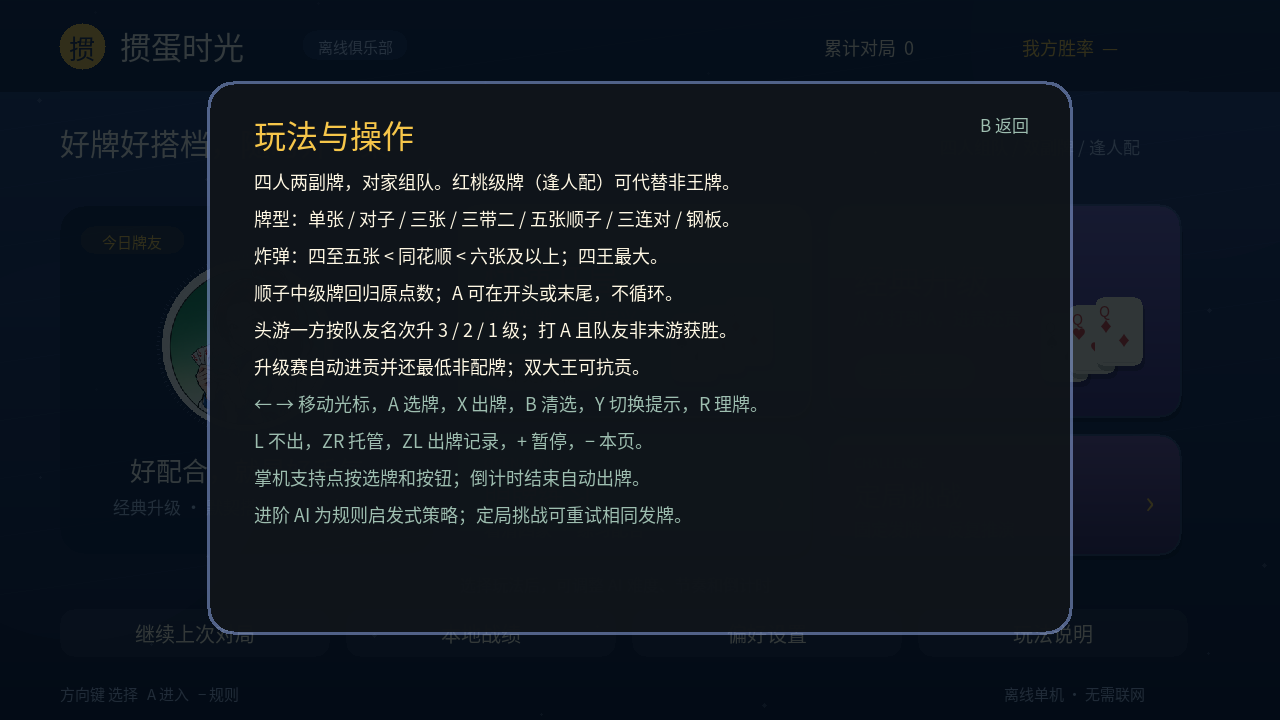
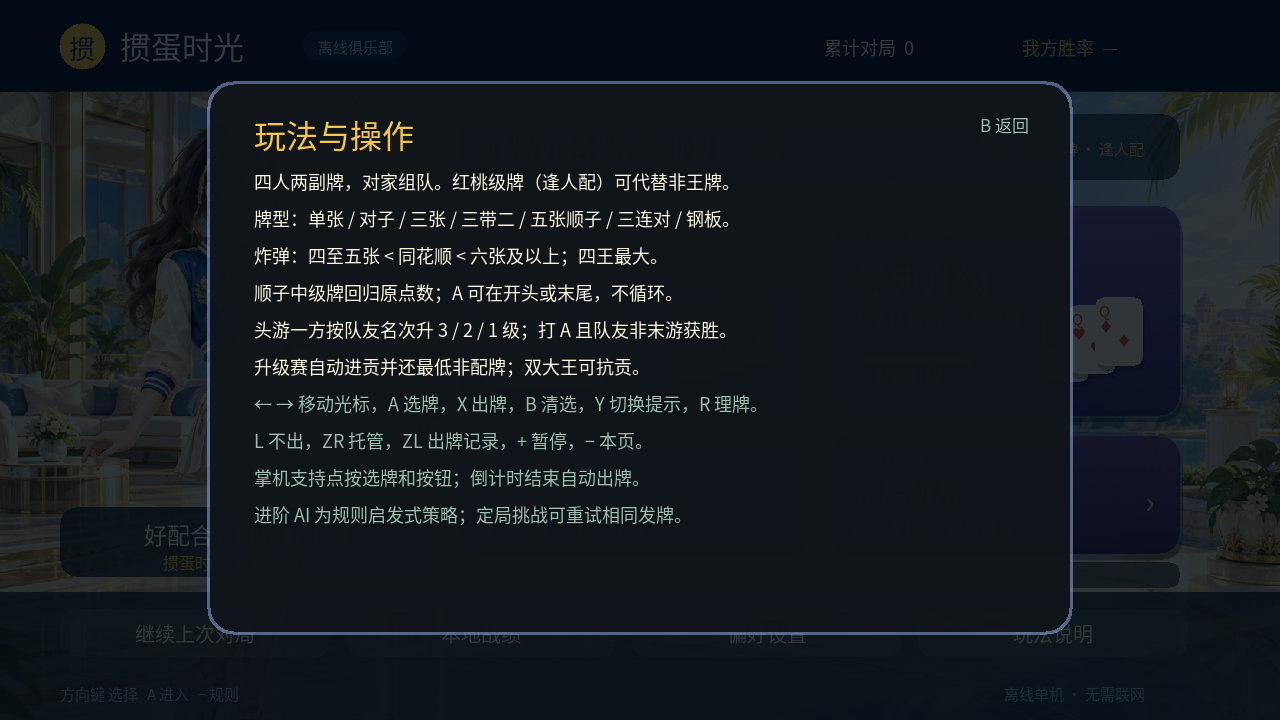
Use supplied seaside lobby and four-player transparent character atlas

Changed region(s): [[0.0, 0.1222, 0.1875, 0.825], [0.8125, 0.1222, 1.0, 0.825]]

diff --git a/source/main.cpp b/source/main.cpp
@@ -23,7 +23,7 @@ using namespace gd;
 
 static constexpr int W=1280,H=720;
 static SDL_Renderer*ren=nullptr;static SDL_Window*window=nullptr;
-static SDL_Texture*avTex[4]={nullptr,nullptr,nullptr,nullptr};static SDL_Texture*bgTex[2]={nullptr,nullptr};
+static SDL_Texture*avTex[4]={nullptr,nullptr,nullptr,nullptr};static SDL_Texture*bgTex[3]={nullptr,nullptr,nullptr};
 static std::map<int,TTF_Font*>fonts;
 struct TextTex{SDL_Texture*t;int w,h;};static std::map<std::string,TextTex>cache;
 struct Col{Uint8 r,g,b,a=255;};
@@ -63,7 +63,7 @@ void circle(int x,int y,int r,Col c){color(c);for(int i=-r;i<=r;i++){int dx=int(
 void vgrad(int x,int y,int w,int h,Col a,Col b){for(int i=0;i<h;i++){double t=h>1?i/double(h-1):0;rect(x,y+i,w,1,{Uint8(a.r*(1-t)+b.r*t),Uint8(a.g*(1-t)+b.g*t),Uint8(a.b*(1-t)+b.b*t)});}}
 void box(int x,int y,int w,int h,int r,Col c){r=std::min(r,std::min(w,h)/2);color(c);for(int row=0;row<h;row++){int inset=0;if(row<r){int dy=r-row;inset=r-int(std::sqrt(double(r*r-dy*dy)));}else if(row>=h-r){int dy=row-(h-r-1);inset=r-int(std::sqrt(double(r*r-dy*dy)));}SDL_RenderDrawLine(ren,x+inset,y+row,x+w-inset-1,y+row);}}
 void roundedGradient(int x,int y,int w,int h,int r,Col a,Col b){
- for(int row=0;row<h;row++){int dy=row<r?r-row:row>=h-r?row-(h-r-1):0;int inset=dy?r-int(std::sqrt(double(r*r-dy*dy))):0;float t=row/float(std::max(1,h-1));rect(x+inset,y+row,w-inset*2,1,{Uint8(a.r*(1-t)+b.r*t),Uint8(a.g*(1-t)+b.g*t),Uint8(a.b*(1-t)+b.b*t)});}
+ for(int row=0;row<h;row++){int dy=row<r?r-row:row>=h-r?row-(h-r-1):0;int inset=dy?r-int(std::sqrt(double(r*r-dy*dy))):0;float t=row/float(std::max(1,h-1));rect(x+inset,y+row,w-inset*2,1,{Uint8(a.r*(1-t)+b.r*t),Uint8(a.g*(1-t)+b.g*t),Uint8(a.b*(1-t)+b.b*t),Uint8(a.a*(1-t)+b.a*t)});}
 }
 void boxOutline(int x,int y,int w,int h,int r,Col c){box(x,y,w,h,r,c);}
 
@@ -96,20 +96,28 @@ void cardFace(int id,int x,int y,int w,int h,bool sel,bool focused,bool up=true)
 }
 // ---------------- avatars ----------------
 void loadAvatars(){
- const char* names[]={"avatar0.png","avatar1.png","avatar2.png","avatar3.png"};
+ const std::string root=fontPath.rfind("romfs:",0)==0?"romfs:/":"romfs/";
+ int aw=0,ah=0,an=0;unsigned char*atlas=stbi_load((root+"characters.png").c_str(),&aw,&ah,&an,4);
+ const char*names[]={"avatar0.png","avatar1.png","avatar2.png","avatar3.png"};
  for(int i=0;i<4;i++){
-  std::string p=fontPath.size()>6&&fontPath[5]==':'?std::string("romfs:/")+names[i]:std::string("romfs/")+names[i];
-  int w=0,h=0,n=0;unsigned char*px=stbi_load(p.c_str(),&w,&h,&n,4);
+  int w=0,h=0,n=0;unsigned char*px=nullptr;std::vector<unsigned char> portrait;
+  if(atlas&&aw>=4&&ah>0){
+   // Read each portrait from the supplied atlas at runtime; preserve the original asset.
+   int cell=aw/4;w=h=std::min(cell,ah);portrait.resize(w*h*4);
+   for(int yy=0;yy<h;yy++)for(int xx=0;xx<w;xx++)for(int c=0;c<4;c++)portrait[(yy*w+xx)*4+c]=atlas[(yy*aw+i*cell+xx)*4+c];
+   px=portrait.data();
+  }else px=stbi_load((root+names[i]).c_str(),&w,&h,&n,4);
   if(!px){fprintf(stderr,"Avatar %s failed: %s\n",names[i],stbi_failure_reason());continue;}
   for(int yy=0;yy<h;yy++)for(int xx=0;xx<w;xx++){float dx=(xx-w/2.0f)/(w*.49f),dy=(yy-h/2.0f)/(h*.49f);if(dx*dx+dy*dy>1)px[(yy*w+xx)*4+3]=0;}
   SDL_Surface*sf=SDL_CreateRGBSurfaceWithFormatFrom(px,w,h,32,w*4,SDL_PIXELFORMAT_RGBA32);
   if(sf){avTex[i]=SDL_CreateTextureFromSurface(ren,sf);SDL_SetTextureBlendMode(avTex[i],SDL_BLENDMODE_BLEND);SDL_FreeSurface(sf);}
-  stbi_image_free(px);
+  if(portrait.empty())stbi_image_free(px);
  }
+ stbi_image_free(atlas);
 }
 void loadBg(){
- const char*names[]={"bghome.png","bgtable.png"};
- for(int i=0;i<2;i++){
+ const char*names[]={"bghome.png","bgtable.png","lobby-seaside.png"};
+ for(int i=0;i<3;i++){
   std::string p=fontPath.size()>6&&fontPath[5]==':'?std::string("romfs:/")+names[i]:std::string("romfs/")+names[i];
   int w=0,h=0,n=0;unsigned char*px=stbi_load(p.c_str(),&w,&h,&n,4);
   if(!px){fprintf(stderr,"Bg %s failed: %s\n",names[i],stbi_failure_reason());continue;}
@@ -160,10 +168,10 @@ void clearFx(Uint32 now){fxList.erase(std::remove_if(fxList.begin(),fxList.end()
 // The lobby is drawn natively so labels remain crisp on handheld and TV output.
 void bgHome(){
  vgrad(0,0,W,H,{39,63,125},{14,19,53});
- for(int i=0;i<9;i++){int y=130+i*58;line(0,y,1280,y-180,{137,174,255,13});}
- for(int i=0;i<36;i++){int x=(i*167+39)%W,y=(i*79+100)%H;circle(x,y,i%5==0?2:1,{186,207,255,60});}
- circle(80,450,190,{88,111,202,15});circle(1190,40,220,{133,103,229,16});
- rect(0,0,W,92,{9,15,43,140});hline(60,91,1128,{156,181,255,45});
+ if(bgTex[2]){SDL_Rect d{0,92,W,720};SDL_RenderCopy(ren,bgTex[2],nullptr,&d);rect(0,92,W,H-92,{14,34,70,24});}
+ else{for(int i=0;i<9;i++){int y=130+i*58;line(0,y,1280,y-180,{137,174,255,13});}for(int i=0;i<36;i++){int x=(i*167+39)%W,y=(i*79+100)%H;circle(x,y,i%5==0?2:1,{186,207,255,60});}}
+ rect(0,0,W,92,{9,15,43,220});hline(60,91,1128,{156,181,255,80});
+ rect(0,592,W,128,{8,15,35,190});
 }
 void bgTable(){
  if(bgTex[1]&&skin==0){SDL_Rect dst{0,0,W,H};SDL_RenderCopy(ren,bgTex[1],nullptr,&dst);rect(0,0,W,H,{6,16,12,58});}
@@ -179,20 +187,19 @@ void home(){
  bgHome();circle(82,46,23,GOLD);text("掼",82,28,26,{32,43,82},true);text("掼蛋时光",120,23,31,WHITE);
  box(302,30,106,30,15,{115,150,255,30});text("离线俱乐部",355,35,15,{188,211,255},true);
  text("累计对局  "+std::to_string(total),824,34,18,CREAM);text("我方胜率  "+(total?std::to_string(wins*100/total)+"%":"—"),1022,34,18,GOLD);
- text("好牌好搭档，随时开一桌",60,120,30,WHITE);text("四人组队 / 双副牌 / 逢人配",1040,134,17,{174,196,240},true);
- box(60,206,374,348,24,{13,27,66,180});box(80,226,105,28,14,{246,198,74,28});text("今日牌友",132,230,15,GOLD,true);
- if(avTex[0]){SDL_Rect d{160,258,174,174};SDL_RenderCopy(ren,avTex[0],nullptr,&d);}else face(247,340,74,0);
- ring(247,345,91,2,{169,194,251,80});text("好配合，就是好手气",247,450,26,WHITE,true);text("经典升级 · 默契搭档 · 从 2 打到 A",247,494,17,{171,194,235},true);
+ box(460,114,720,66,16,{12,24,50,170});text("好牌好搭档，随时开一桌",484,127,27,WHITE);text("双副牌 · 逢人配",1088,137,15,GOLD,true);
+ if(bgTex[2]){box(60,507,374,70,16,{10,22,44,195});text("好配合，就是好手气",247,517,23,WHITE,true);text("掼蛋时光 · 离线俱乐部",247,550,16,GOLD,true);}
+ else{box(60,206,374,348,24,{13,27,66,180});if(avTex[0]){SDL_Rect d{160,258,174,174};SDL_RenderCopy(ren,avTex[0],nullptr,&d);}text("好配合，就是好手气",247,450,26,WHITE,true);text("经典升级 · 默契搭档 · 从 2 打到 A",247,494,17,{171,194,235},true);}
  const char* titles[]={"快速开局","经典升级","明牌练习","定局挑战"};const char* tags[]={"QUICK PLAY","CLASSIC MATCH","OPEN HANDS","CHALLENGE"};
  const char* desc[]={"随机发牌，一局尽兴","从 2 打到 A，进贡还贡","看清四家 · 练习配合","固定发牌 · 反复推演"};
- Col tops[4]={{77,130,221},{110,93,189},{48,118,160},{111,80,156}};Col bots[4]={{40,70,148},{63,46,126},{28,67,105},{59,40,100}};
+ Col tops[4]={{65,114,201,235},{101,78,173,235},{37,103,146,235},{100,67,143,235}};Col bots[4]={{32,56,124,242},{53,37,113,242},{21,53,87,242},{47,31,85,242}};
  for(int i=0;i<4;i++){auto a=modeAreas[i];bool f=focus==i;box(a.x+3,a.y+6,a.w,a.h,20,{4,9,35,90});box(a.x-2,a.y-2,a.w+4,a.h+4,22,f?GOLD:Col{146,174,249,80});
   roundedGradient(a.x,a.y,a.w,a.h,20,tops[i],bots[i]);
   text(tags[i],a.x+24,a.y+16,13,{217,227,255});text(titles[i],a.x+24,a.y+(i<2?48:38),i<2?34:27,WHITE);text(desc[i],a.x+24,a.y+(i<2?99:80),17,{217,227,255});
   if(i<2){for(int j=0;j<3;j++)cardFace((i==0?36:40)+j,a.x+211+j*27,a.y+107-j*8,48,69,false,false);box(a.x+24,a.y+148,122,36,18,f?GOLD:Col{255,255,255,32});text(i==0?"即刻开桌  ›":"开始升级  ›",a.x+85,a.y+155,17,f?INK:WHITE,true);}
   else text("›",a.x+a.w-35,a.y+40,32,GOLD);
  }
- text("选择玩法后，可调整 AI 难度、节奏和倒计时",460,572,16,{174,196,240});
+ box(460,562,720,26,10,{8,18,37,150});text("选择玩法后，可调整 AI 难度、节奏和倒计时",478,565,15,CREAM);
 }
 void showMove(int p,int cx,int y){auto&m=game.shown[p];if(game.passed[p]){text("不 出",cx,y+16,24,MUTED,true);return;}if(m.kind==NONE)return;int n=m.cards.size(),step=std::min(34,230/std::max(1,n));int x=cx-(step*(n-1)+48)/2;for(int i=0;i<n;i++)cardFace(m.cards[i],x+step*i,y,48,69,false,false);text(kindName(m.kind),cx,y+74,14,GOLD,true);}
 void counterPanel(){

diff --git a/README.md b/README.md
@@ -18,7 +18,7 @@
 
 参考用户提供的欢乐斗地主 / 大掼蛋界面，重新组织离线功能：
 
-- 蓝紫金色大厅、角色牌友区、大尺寸玩法卡片、本地战绩信息与统一底栏。
+- 海滨露台大厅（用户提供背景）、蓝紫金玩法卡片、本地战绩信息与统一底栏；四家角色使用用户提供的透明肖像图集，运行时读取各角色，不改动原始图集。
 - 四种玩法进入前支持配置 AI 难度、出牌节奏和倒计时；A 默认直接开始，方向键可调整选项。
 - 连按 Y 在合法出牌方案间切换，首项保留 AI 推荐（包括建议给队友让牌）；选中手牌实时显示牌型，非法出牌按钮置灰。
 - ZL 打开带实际牌面的分页出牌记录，含“不出”记录；左右键或触屏按钮翻页。记录和复盘数据随牌局保存。
@@ -72,7 +72,7 @@
 ## 功能
 
 - 腾讯《大掼蛋》风格的牌桌界面：翡翠绿、深海蓝、午夜紫三种绒面牌桌主题，圆角牌面、四角点数、逢人配金标、牌背花纹。
-- **四家原创漫画角色头像**（高马尾女/西装男/旗袍女/立领眼镜男），出牌方带金色光环，不出/已出完状态清晰；大厅常驻吉祥物同风格。
+- **四家角色头像**（当前源码使用用户提供的透明肖像图集），出牌方带金色光环，不出/已出完状态清晰；大厅常驻吉祥物同风格。
 - **结算后复盘报告**：牌力曲线（每手牌力归一展示）、四家手牌余量局势图、炸弹次数与最大牌力统计（仅描述牌力与余牌，不提供 AI 评分），每局结束按 ZL 即可回看。
 - 出牌飞行动画、炸弹爆裂特效、不出气泡、快捷表情气泡、结算撒花。
 - **全点数记牌器**：牌桌左上角显示 2~A、小王、大王在三家手中的剩余张数（不含自己），归零变红。
